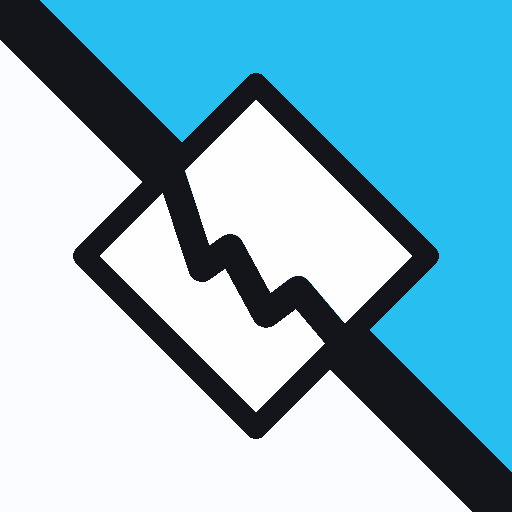
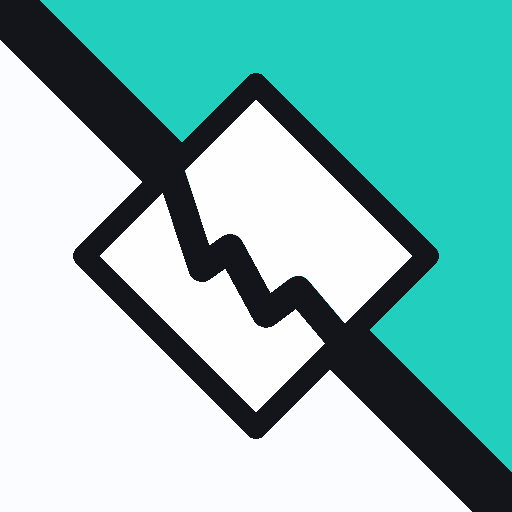
アイコンの水色を緑寄りに
Claude-Session: https://claude.ai/code/session_01FQJ1XiZER3tAd8K9bpz1Z8

diff --git a/sw.js b/sw.js
@@ -1,7 +1,7 @@
 // Service worker for installing the site as an app.
 // Always asks the network first, so an open app gets the newest version of the site; the saved copy is used only offline.
 // Results themselves come live from Firebase and are not touched here.
-const CACHE = "compass3on3-v4";
+const CACHE = "compass3on3-v5";
 const SHELL = ["./", "./index.html", "./reader.js", "./firebase-config.js", "./manifest.webmanifest", "./icons/icon-192.png", "./icons/icon-512.png"];
 self.addEventListener("install", e => { e.waitUntil(caches.open(CACHE).then(c => c.addAll(SHELL)).catch(() => {})); self.skipWaiting(); });
 self.addEventListener("activate", e => { e.waitUntil(caches.keys().then(ks => Promise.all(ks.filter(k => k !== CACHE).map(k => caches.delete(k)))).then(() => self.clients.claim())); });
